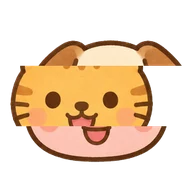
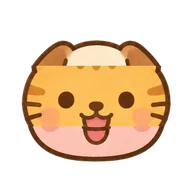
かおスロット: だんの さかいで かおの はばを そろえて りんかくを つなぐ
make-kao.py が ぎょうごとに よこだけ のばして、85・171px で どの かおも おなじ はばと まんなかに する。CACHE v19。

Claude-Session: https://claude.ai/code/session_014KGCnHCUgbQrY8vCetfBNu

diff --git a/sw.js b/sw.js
@@ -1,5 +1,5 @@
 /* ぽんぽんあそび service worker: オフライン対応。index.html 以外のプリキャッシュ対象を変えたら CACHE を上げる。 */
-var CACHE = 'ponpon-v18';
+var CACHE = 'ponpon-v19';
 var FONTS = 'ponpon-fonts-v1';
 /* へんしん カメラ（assets/face/ 約 13MB）は PRECACHE に いれない: あそんだ とき（または せっていの ボタン）に ふべつの キャッシュへ。
    なまえを あげるときは ponpon-face-v2 のように（ふるい ponpon-face-* は activate で けす） */

diff --git a/tools/make-kao.py b/tools/make-kao.py
@@ -2,7 +2,7 @@
 """かおスロット の絵: マゼンタ背景のシート（3x3）を切り分けて透過 WebP にする。
 使い方: python3 tools/make-kao.py シート.png
  左上から右へ inu neko usagi / kuma buta panda / raion kaeru robo（どうぶつの かお）
- → assets/kao/<id>.webp（256x256 の正方形・透過。どの かおも おなじ ばいりつで、めの せんを y=138 に そろえる → 3 だんに きると みみ / め・はな / くち）
+ → assets/kao/<id>.webp（256x256 の正方形・透過。どの かおも おなじ ばいりつで、めの せんを y=138 に そろえ、だんの さかいで かおの はばを そろえる → 3 だんに きると みみ / め・はな / くち で りんかくが つながる）
  → ホームのアイコン assets/ico/kao.webp（192px。うえ 1/3 = inu、まんなか 1/3 = neko、した 1/3 = buta を つないだ かお）
 元シートはリポジトリに置かない。キーイングは make-dokoka.py と同じ。"""
 import os
@@ -117,13 +117,48 @@ def place(cell, cw, name):
     if e is None:
         print('%s: めが みつからないので まんなかに おきます' % name)
         e = ((ys.min() + ys.max()) / 2, (xs.min() + xs.max()) / 2)
-    s = 240.0 / cw
+    s = 2 * 240.0 / cw   # 2 ばいで おいて、よこを そろえて から 256 に もどす
     t = crop(cell, 0)
     x0, y0 = xs.min(), ys.min()
     t = t.resize((max(1, round(t.size[0] * s)), max(1, round(t.size[1] * s))), Image.LANCZOS)
-    c = Image.new('RGBA', (256, 256), (0, 0, 0, 0))
-    c.paste(t, (round(128 - (e[1] - x0) * s), round(EYE_Y - (e[0] - y0) * s)), t)
-    return c
+    c = Image.new('RGBA', (512, 512), (0, 0, 0, 0))
+    c.paste(t, (round(256 - (e[1] - x0) * s), round(2 * EYE_Y - (e[0] - y0) * s)), t)
+    return np.asarray(c).astype(np.float32)
+
+
+CUTS = (85, 171)   # 3 だんの さかい（256px の なか）
+
+
+def span(a, y):
+    """y の あたり（2 ばいの え）での かおの はしから はし（ひだり, みぎ）。"""
+    rows = a[2 * y - 3:2 * y + 4, :, 3] > 128
+    xs = np.where(rows.any(axis=0))[0]
+    return (float(xs.min()), float(xs.max())) if len(xs) else (200.0, 312.0)
+
+
+def even_up(faces):
+    """だんの さかいで どの かおも おなじ はばと まんなかに なるよう、ぎょうごとに よこだけ のばす。
+    さかいの あいだは なめらかに つなぎ、うえと したは さかいの ばいりつの まま。"""
+    sp = {n: [span(a, y) for y in CUTS] for n, a in faces.items()}
+    tw = [float(np.median([sp[n][k][1] - sp[n][k][0] for n in faces])) for k in range(2)]
+    ys2 = np.array([2 * y for y in CUTS], np.float32)
+    out = {}
+    for n, a in faces.items():
+        sc = [tw[k] / max(1.0, sp[n][k][1] - sp[n][k][0]) for k in range(2)]
+        cx = [(sp[n][k][0] + sp[n][k][1]) / 2 for k in range(2)]
+        pm = a.copy(); pm[..., :3] *= pm[..., 3:4] / 255.0
+        res = np.zeros_like(a)
+        X = np.arange(512, dtype=np.float32)
+        for y in range(512):
+            k = np.interp(y, ys2, sc); c = np.interp(y, ys2, cx)
+            src = c + (X - 256) / k
+            for ch in range(4):
+                res[y, :, ch] = np.interp(src, X, pm[y, :, ch], left=0, right=0)
+        al = res[..., 3:4]
+        res[..., :3] = np.where(al > 0, res[..., :3] * 255.0 / np.maximum(al, 1e-3), 0)
+        img = Image.fromarray(np.clip(res, 0, 255).astype(np.uint8), 'RGBA').resize((256, 256), Image.LANCZOS)
+        out[n] = img
+    return out
 
 
 def main():
@@ -146,6 +181,8 @@ def main():
         if not (cell[..., 3] > 40).any():
             sys.exit('%s: セルが からっぽです' % n)
         faces[n] = place(cell, W / 3.0, n)
+    faces = even_up(faces)
+    for n in GRID:
         save(faces[n], '%s/%s.webp' % (KAO_DIR, n))
     # ホームのアイコン: 3 つの かおの 上・中・下を つなぐ
     whole = Image.new('RGBA', (256, 256), (0, 0, 0, 0))

diff --git a/CLAUDE.md b/CLAUDE.md
@@ -33,7 +33,7 @@ E2E はブロックごとに別プロセス・別 browser で独立に走る（`
 - localStorage: `ponpon.settings.v1` / `ponpon.family.v1` / `ponpon.stickers.v1` / `ponpon.stats.v1` / `ponpon.mix.v1`（まぜまぜの はっけんずみ）/ `ponpon.home.v1`（ホームで隠した あそび）。必ず try/catch で囲む。音なし・声なしは保存しない。
 - イラストは `assets/ico/`（ホームのアイコン、`ICO`）と `assets/ani/`（どうぶつの顔、`ANI_IMG`）に透過 WebP（約192px）、`assets/mix/`（まぜまぜの もと6つ＋できもの21、192px。マゼンタ背景のシートから `python3 tools/make-mix.py 出力dir シート1 シート2 シート3` で切り出し）、`assets/kiru/`（とんとん の 食べもの・断面・道具。マゼンタ背景のシートから `python3 tools/make-kiru.py シート1 シート2` で切り出し。ホームの追加アイコン `assets/ico/{drive,piano,pinball,voice,nami,mix,suna,kiru}` も同じシート1 から出る）、`assets/kaeru/`（かえる: すわり・とびの 2 ポーズと はっぱ 2・はす。マゼンタ背景の 3x2 シートから `python3 tools/make-kaeru.py シート` で切り出し。ホームアイコン `assets/ico/kaeru` も同じシートから出る。絵は `KAERU_IMG` で差し替え）、`assets/dokoka/`（どこかな: もの 14 こと 色ちがいの シャッター shutter0〜5。マゼンタ背景の 4x4 シートから `python3 tools/make-dokoka.py シート` で切り出し。ホームアイコン `assets/ico/dokoka` も同じシートから出る。絵は `DOKO_IMG`）、`assets/aiueo/`（あいうえおの 絵文字の かわりに だす え。`KANA` の 4 つめに パス）、`assets/stk/`（シールちょうのシール、`STK_IMG`。白フチ込み 256px）で置く。トーンはそろえる（やわらかい手描き風・太めで丸い焦げ茶の輪郭・パステル）。
 - あいうえお（`aiueo`）: 「あいう / 123」の きりかえで すうじ（1〜10 と 0、4x3 / たて画面は 3x4）も あそべる。なぞるでは 書き順のアニメ（かきじゅん）が自動で流れ、▶ かきじゅん で もういちど。線データは `assets/kaki/kanjivg.js`（KanjiVG 由来、CC BY-SA 3.0。`python3 tools/make-kaki.py` で作り直し。`window.KAKI = {文字: [パスの d …]}`、109x109 の座標）。初めて入ったときに遅延ロード（`'assets/kaki/kanjivg.js'` は単一引用符で書く: e2e が書き換える）、`PRECACHE` に入っている。読めなければ 無言で 従来の フォントの お手本（アニメなし）。10 は 1 と 0 を 横に並べる。数字は 80px 以上（568x320 だけ 64px 以上: 68px 前後。きりかえ行も 横長で短いときは 56px）。テスト用に `games.aiueo._t()`（`mode`/`ch`/`tracing`/`kaki`/`strokes`/`anim`/`drawn`）。
-- かおスロット（`kao`）: どうぶつ 9 ひき（`KAO`: いぬ ねこ うさぎ くま ぶた ぱんだ らいおん かえる ろぼっと）の かおを よこに 3 だん（うえ・まんなか・した）に わけた リール。ぜんぶ まわって いて、ボタン（「とめる」/ 結果のあと 0.8 秒で 🔄「もういっかい」）か かおを たたくと うえから じゅんに とまる（ゆっくり とまっている あいだの タップは むし）。まんなか・した は 1/3 の かくりつで うえの かおに そろう。そろったら「〇〇 ぴったり！」、ちがう ときは 3 つの なまえを ならべて よむ（わらいながら ぷるぷる、しっぱいの えんしゅつなし）。絵は `KAO_IMG`（`{inu:'assets/kao/inu.webp',…}`、256px 正方形・透過）。よみこめない ものは えもじを canvas に かいた しろ。`assets/kao/` の 9 まいと ホームの アイコン `assets/ico/kao.webp` は マゼンタ背景の 3x3 シートから `python3 tools/make-kao.py シート` で切り出す（どの かおも おなじ ばいりつで、めの ならびを みつけて y=138 に そろえる → 3 だんが みみ / め・はな / くち に なる）。差し替えたら `sw.js` の `CACHE` を上げる。テスト用に `games.kao._t()`（`phase`/`next`/`stopped`/`spinning`/`match`）と `_seed(fn)`（Math.random の かわり）。
+- かおスロット（`kao`）: どうぶつ 9 ひき（`KAO`: いぬ ねこ うさぎ くま ぶた ぱんだ らいおん かえる ろぼっと）の かおを よこに 3 だん（うえ・まんなか・した）に わけた リール。ぜんぶ まわって いて、ボタン（「とめる」/ 結果のあと 0.8 秒で 🔄「もういっかい」）か かおを たたくと うえから じゅんに とまる（ゆっくり とまっている あいだの タップは むし）。まんなか・した は 1/3 の かくりつで うえの かおに そろう。そろったら「〇〇 ぴったり！」、ちがう ときは 3 つの なまえを ならべて よむ（わらいながら ぷるぷる、しっぱいの えんしゅつなし）。絵は `KAO_IMG`（`{inu:'assets/kao/inu.webp',…}`、256px 正方形・透過）。よみこめない ものは えもじを canvas に かいた しろ。`assets/kao/` の 9 まいと ホームの アイコン `assets/ico/kao.webp` は マゼンタ背景の 3x3 シートから `python3 tools/make-kao.py シート` で切り出す（どの かおも おなじ ばいりつで、めの ならびを みつけて y=138 に そろえ、だんの さかい（85・171px）で かおの はばと まんなかが そろうよう ぎょうごとに よこだけ のばす → 3 だんが みみ / め・はな / くち で、りんかくが つながる）。差し替えたら `sw.js` の `CACHE` を上げる。テスト用に `games.kao._t()`（`phase`/`next`/`stopped`/`spinning`/`match`）と `_seed(fn)`（Math.random の かわり）。
 - へんしん（`henshin`）: 前面カメラの鏡。`assets/face/` に MediaPipe Face Landmarker（tasks-vision 0.10.14）を同梱（作り直しは `sh tools/make-face.sh`）。初めて入ったときだけ遅延ロードし、失敗しても無言で「顔なし（画面中央）」モードで遊べる。描画は WebGL の 1 枚シェーダ（歪み・おばけ色）＋2D オーバーレイ（ぼうし・おばけの布・きらきら）、WebGL なしは Canvas2D。検出は間引き（66ms、重いと 150ms）。操作は下のバー（🔄 うしろ/まえ・🎲 ランダム・✨ えらぶ。横向きは右端の縦並び）と、えらぶで出る半透明ボトムシート `#hs-sheet`（こうか 5・ぼうし 5・おめん 8 を 1 つずつのタイルで。選んでもシートは開いたまま、✖ かシート外タップで閉じる）。項目は `HS_ITEMS`。テスト用に `games.henshin._t()`（`sheet`/`item`）/ `_fake(landmarks)`。
 - `assets/face/`（約 13MB）は PRECACHE に入れない。SW が `/assets/face/` を別キャッシュ `ponpon-face-*`（cache-first）に溜める。メッセージ `face`（そろい具合）/ `face-fetch`（ダウンロード）、設定の「オフライン」にボタンあり。名前を上げるときは `FACECACHE` を `ponpon-face-v2` のようにする。
 - カメラ検出（おみせやさん）は `/* camdet:begin */`〜`/* camdet:end */` の純粋関数。単体テストはこの範囲を抜き出して実行する。
